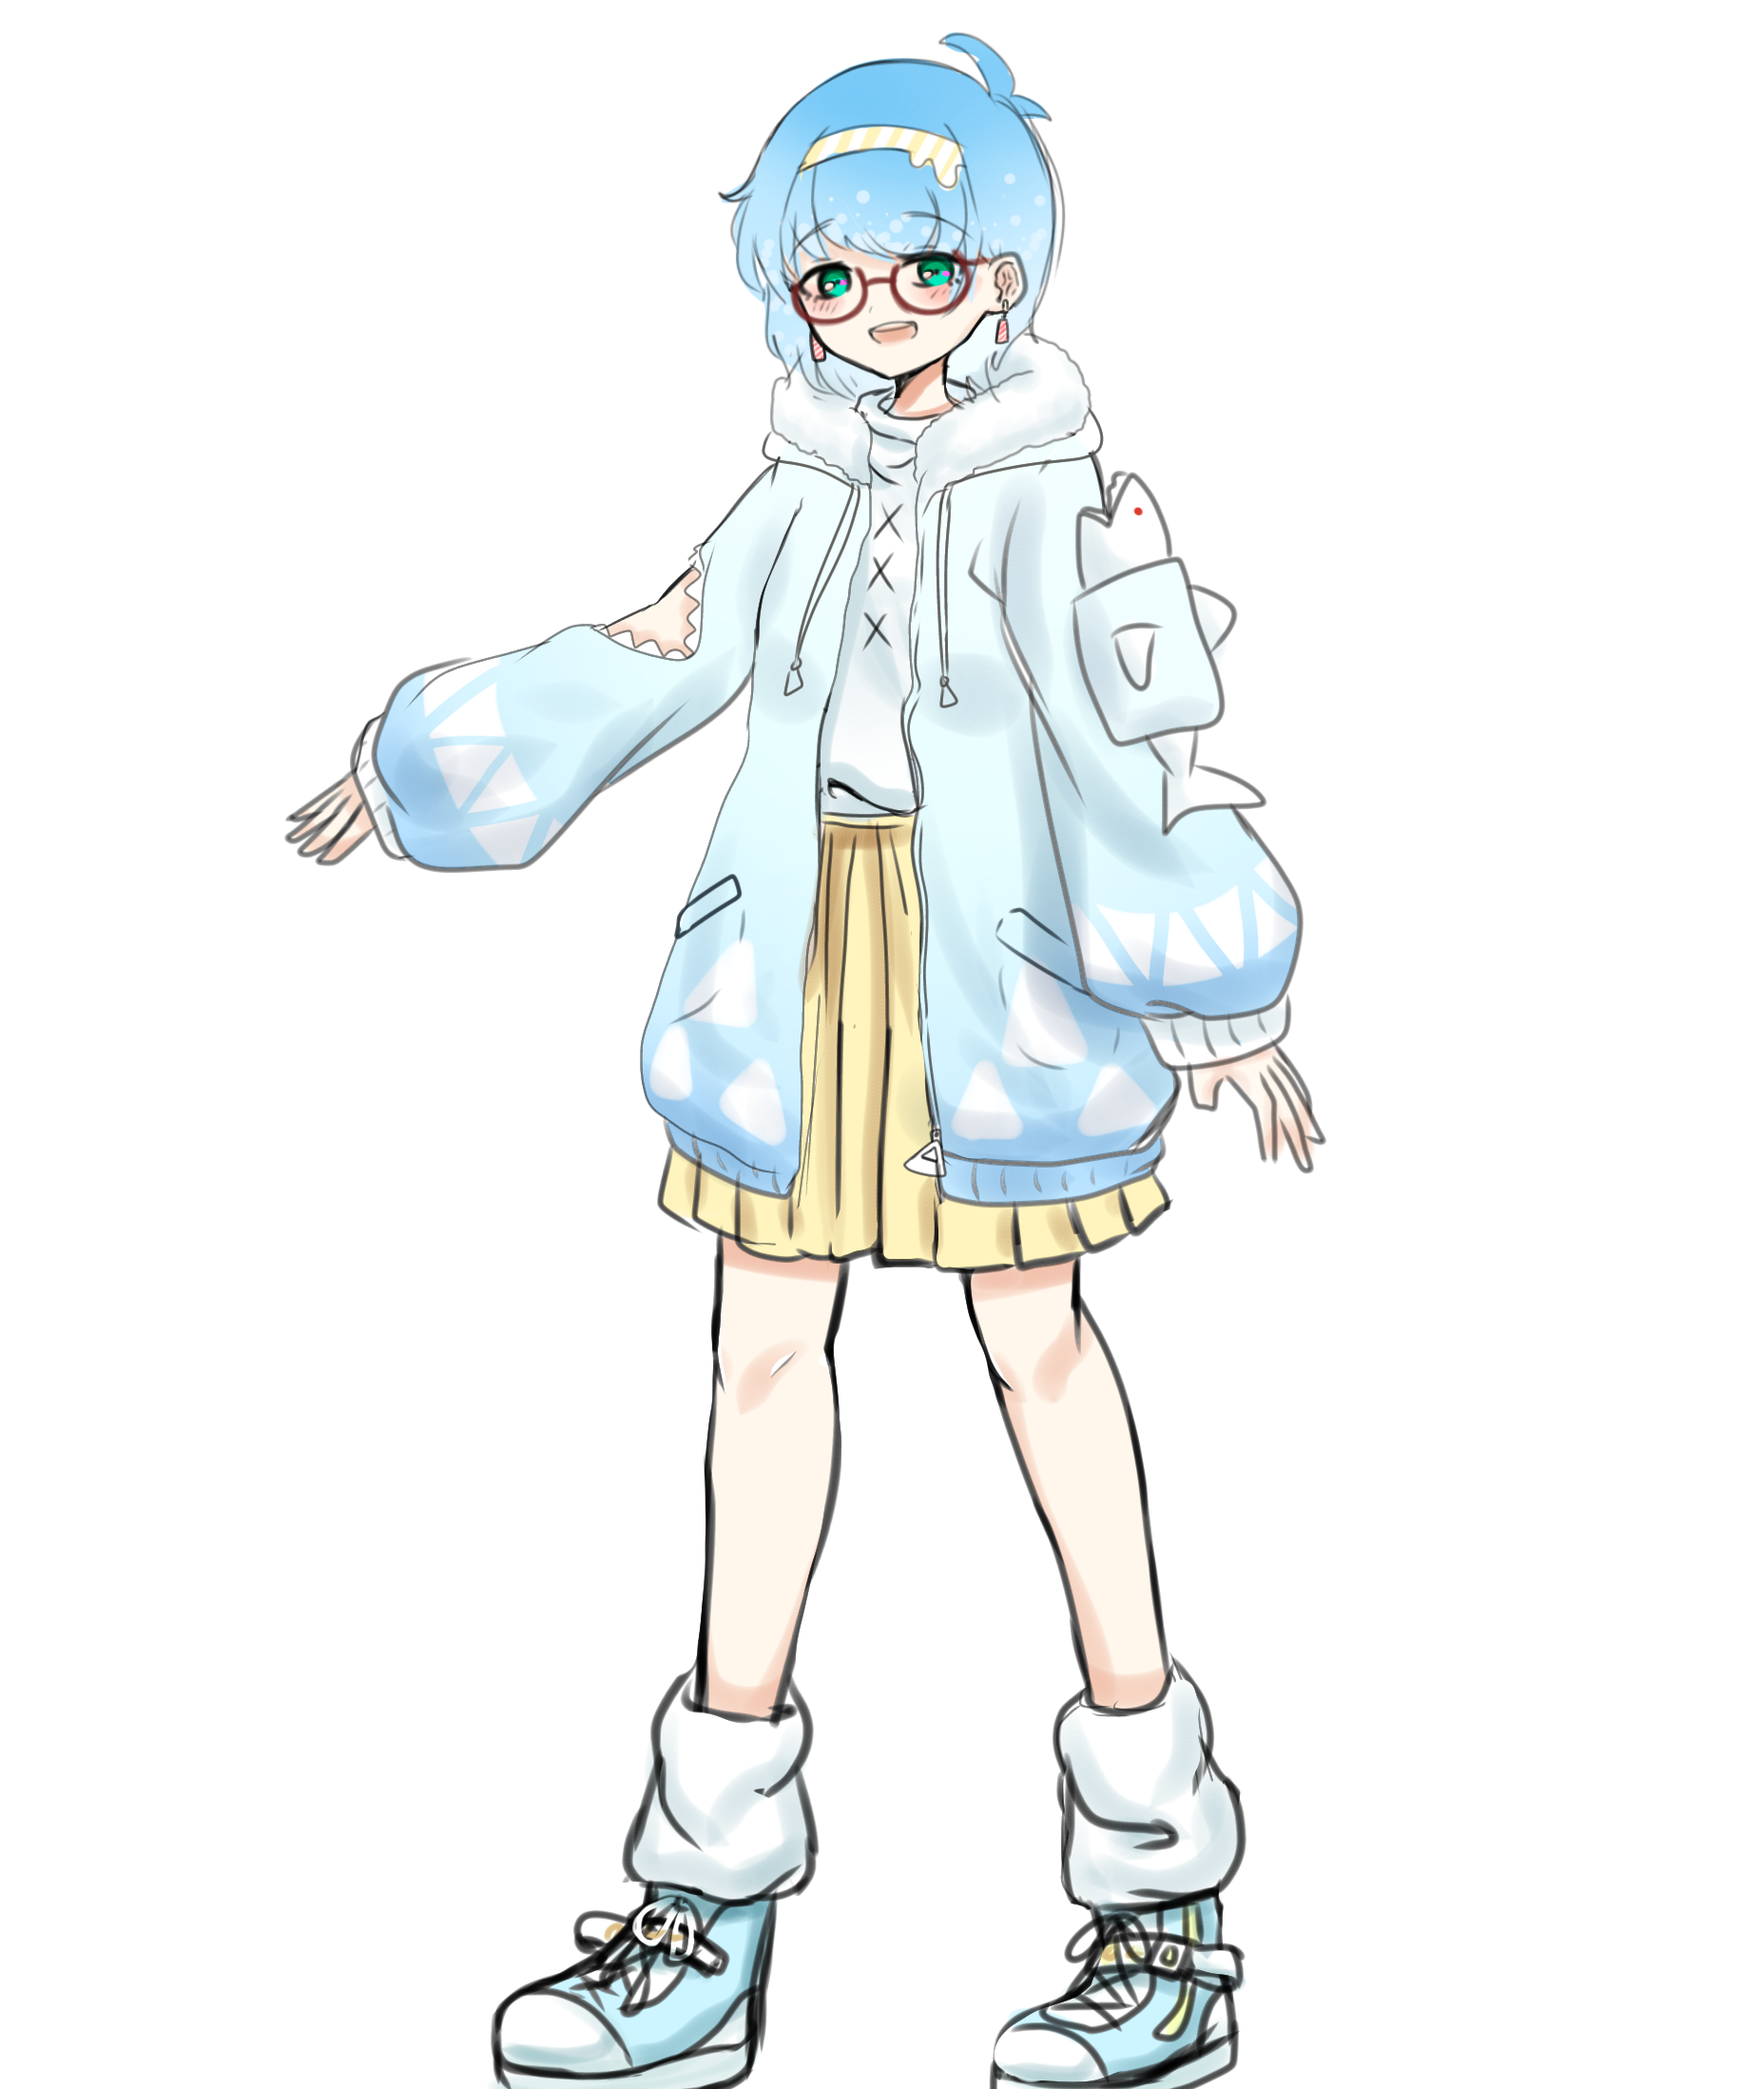
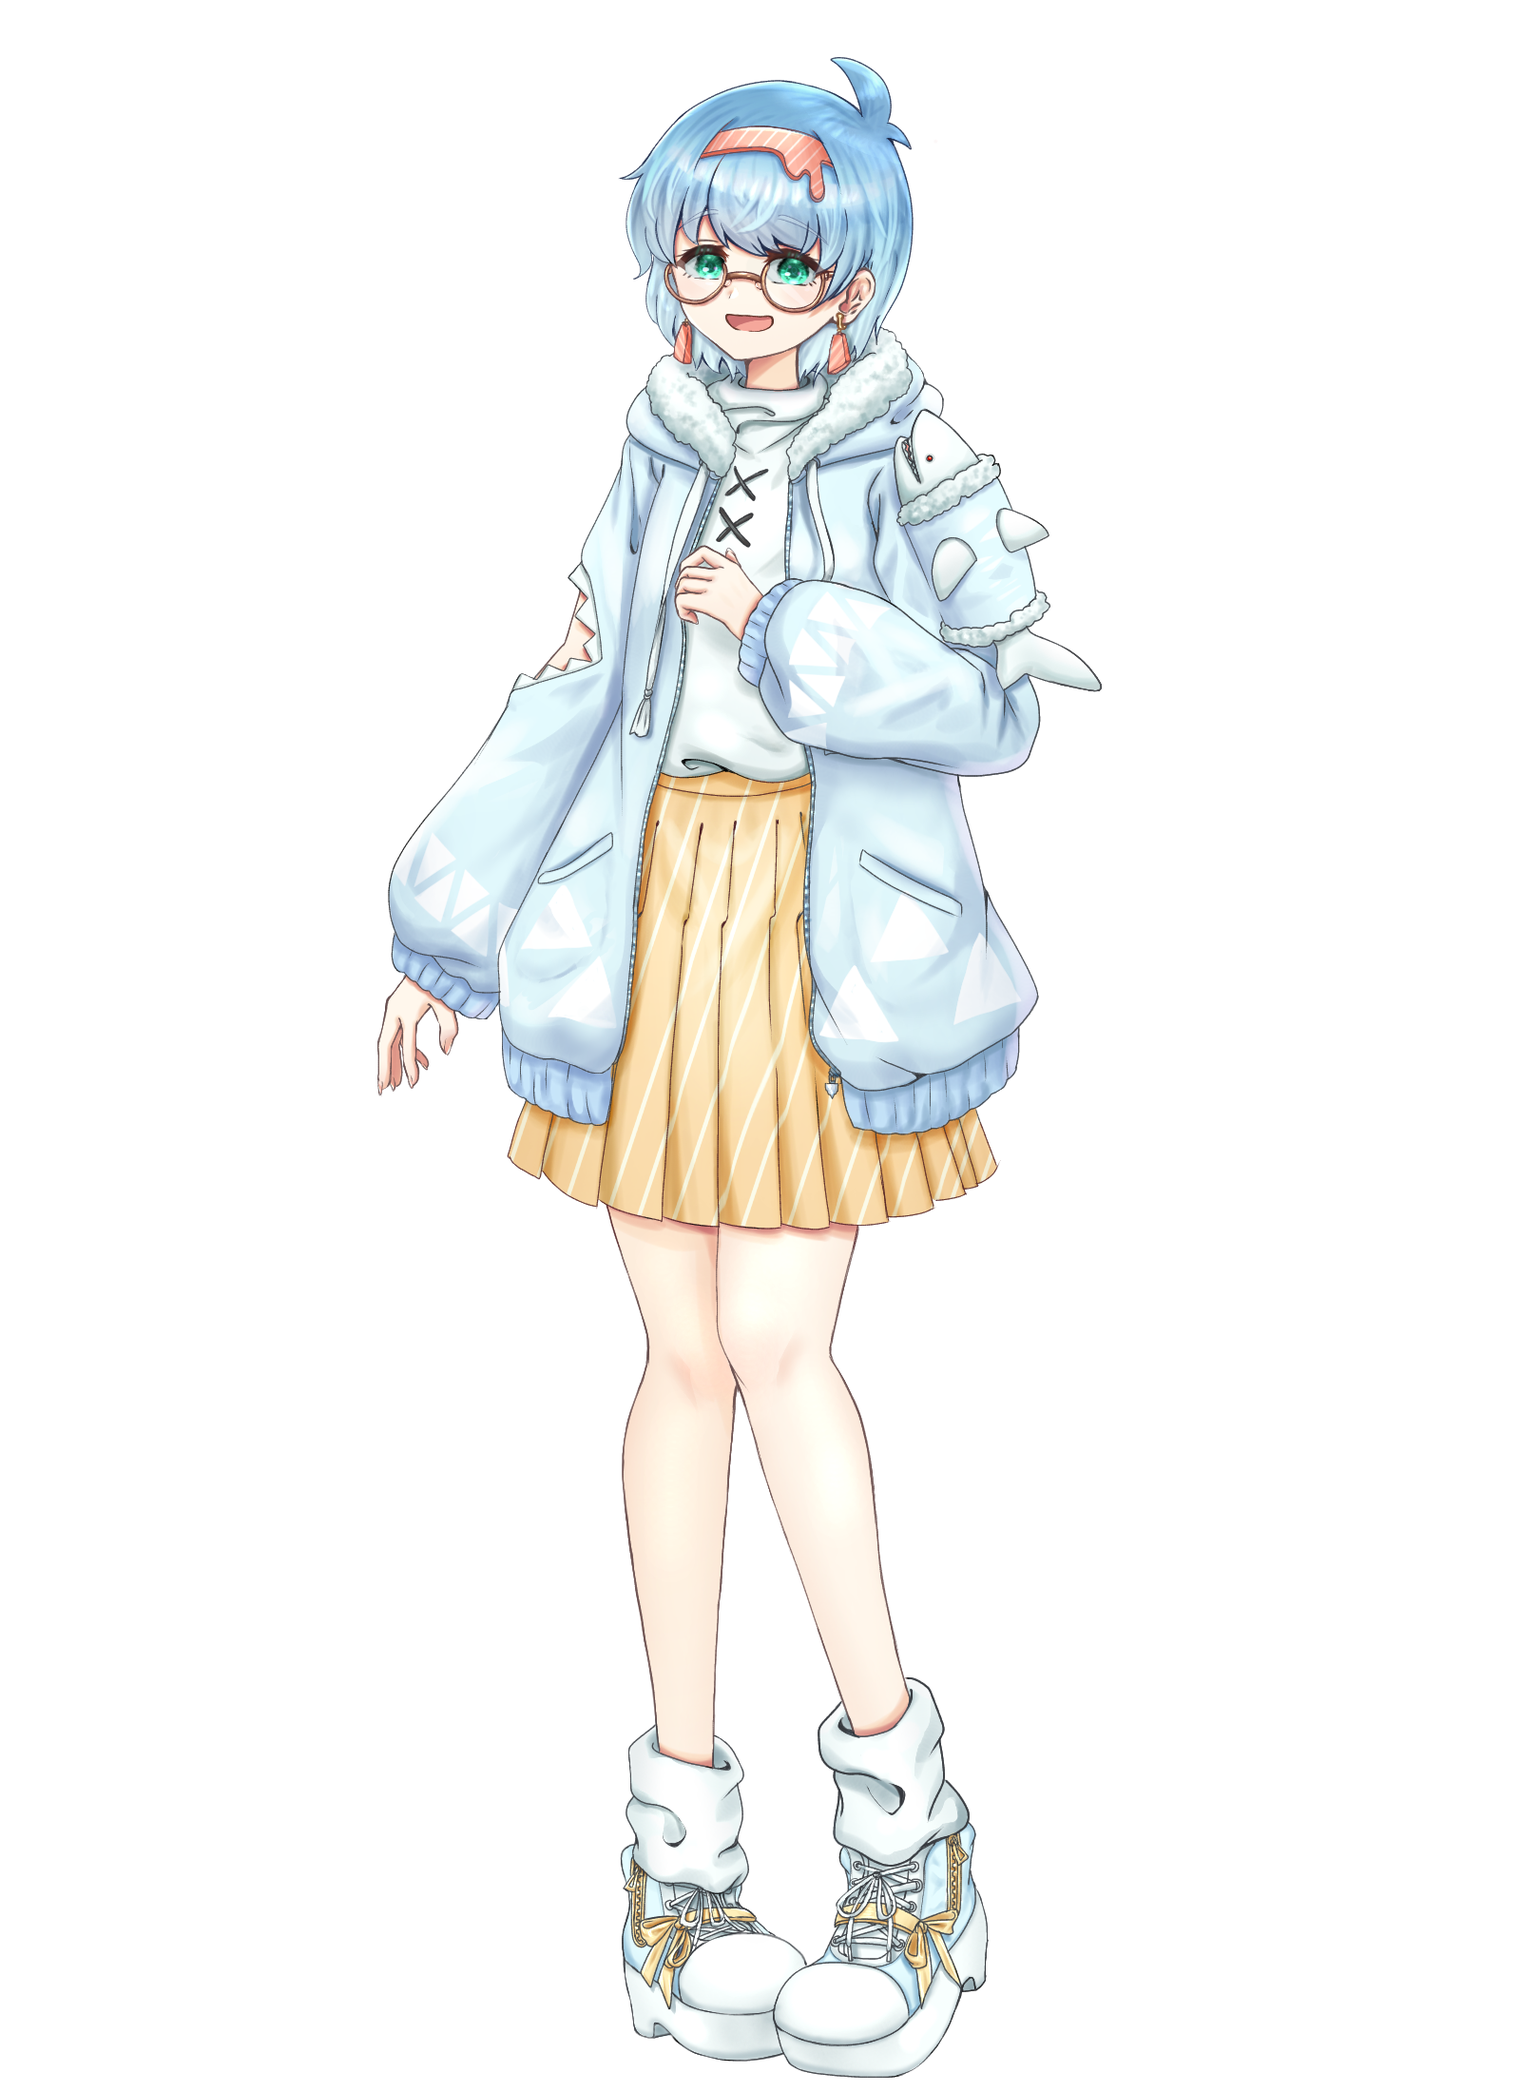
Change and add illustrations

Changed region(s): [[0.1562, 0.0, 0.75, 1.0]]

diff --git a/content/characters/shibisaki_mao.md b/content/characters/shibisaki_mao.md
@@ -6,6 +6,7 @@ date: '2023-03-06'
 ## 鮪崎マオ（Shibisaki Mao）
 
 ![image](/img/char/ima_01_01.png)
+![image](/img/char/ima_01_02.png)
 
 illustrator : 砂潜 ([＠sunamogurii](https://twitter.com/sunamogurii))
 
@@ -23,6 +24,10 @@ illustrator : 砂潜 ([＠sunamogurii](https://twitter.com/sunamogurii))
 [download](https://drive.google.com/drive/folders/1MGw83c29d_qh93rk-m_Jt6QVGrenWHLI?usp=sharing "DeepVocal_model")
 
 [DeepVocal_HOME PAGE](https://www.deep-vocal.com/#/ "DeepVocal_HOME PAGE")
+
+### Illustration
+
+[download](https://drive.google.com/drive/folders/1kUP_6A_89mCP5KTM_X3C1QXxTu2MyiBV?usp=sharing "google drave")
 
 ***
 
